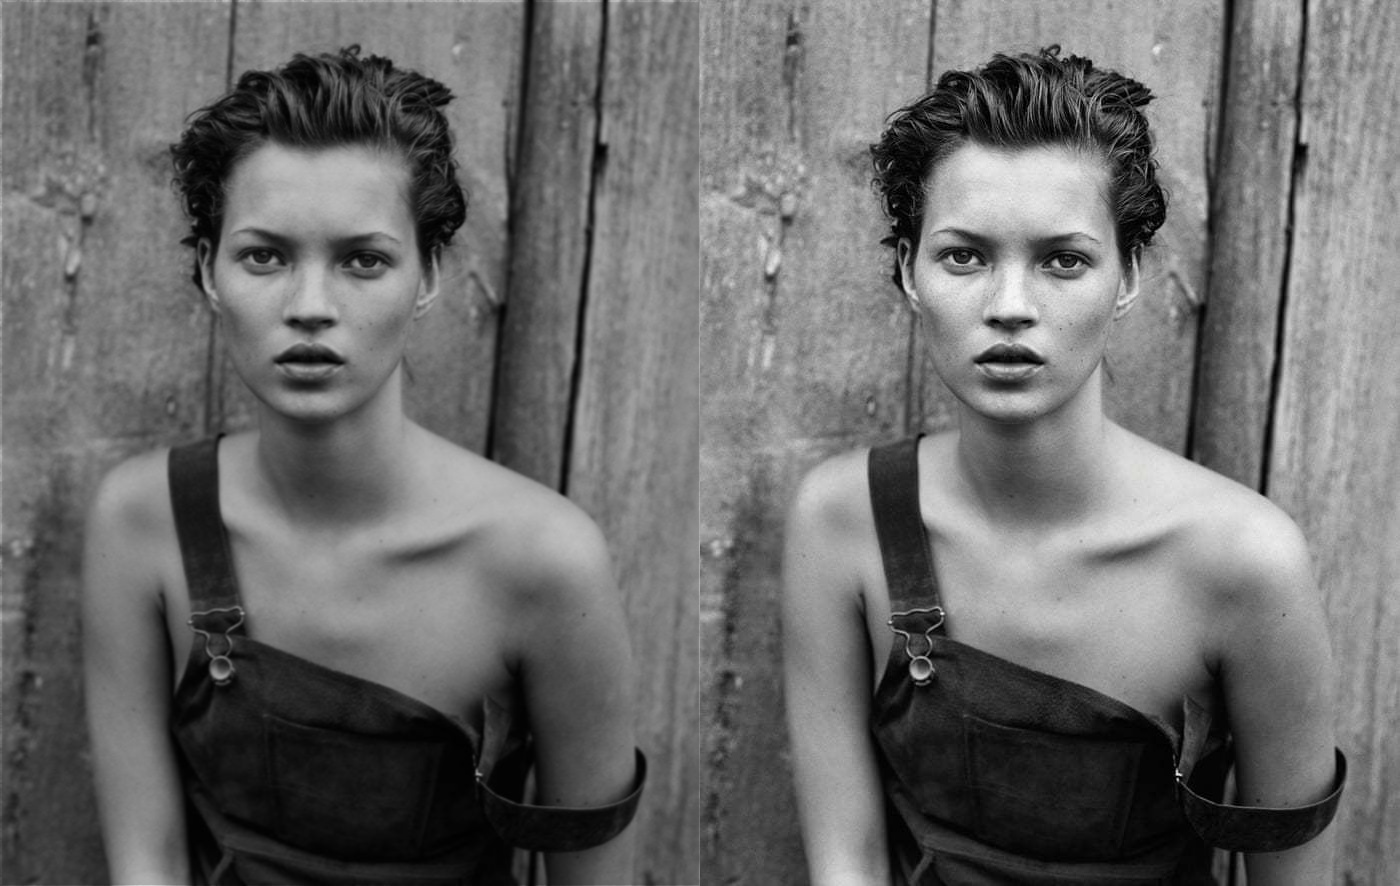
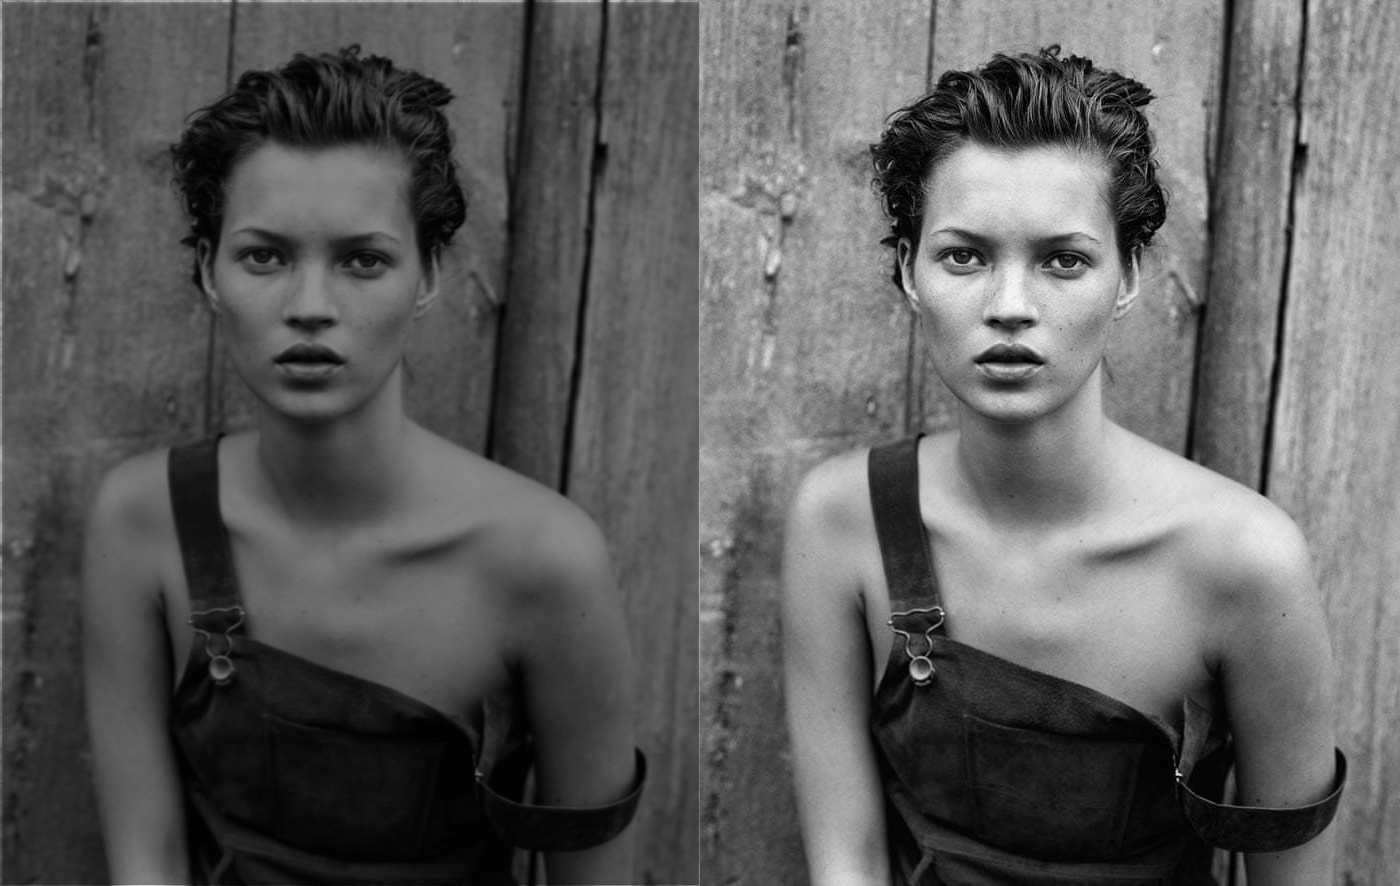
Только для чёрно-белых

diff --git a/gaus_blur.py b/gaus_blur.py
@@ -1,7 +1,7 @@
 import cv2
 import numpy
 
-grey = cv2.imread("img/hb_2.jpg")
+grey = cv2.imread("img/hb_2.jpg", cv2.IMREAD_GRAYSCALE)
 grey_copy = grey.copy()
 n = 5
 matr_gauss = [[0 for i in range(0,n)]  for i in range(0,n)]
@@ -30,9 +30,8 @@ def gauss_blur(ker, foto_grey):
             sum_value = 0
             for k in range(0,4):
                 for l in range(0,4):
-                    sum_value += ker[k][l]*foto_grey[i+k][j+l][0]
-            for k in range(0,3):
-                foto_grey[i+2][j+2][k] = sum_value
+                    sum_value += ker[k][l]*foto_grey[i+k][j+l]
+                foto_grey[i+2][j+2] = sum_value
     return foto_grey
 
 new_grey = gauss_blur(matr_gauss, grey.copy())
